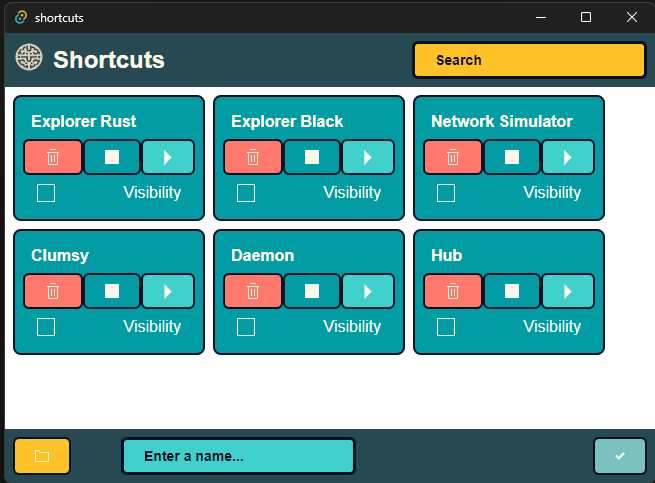
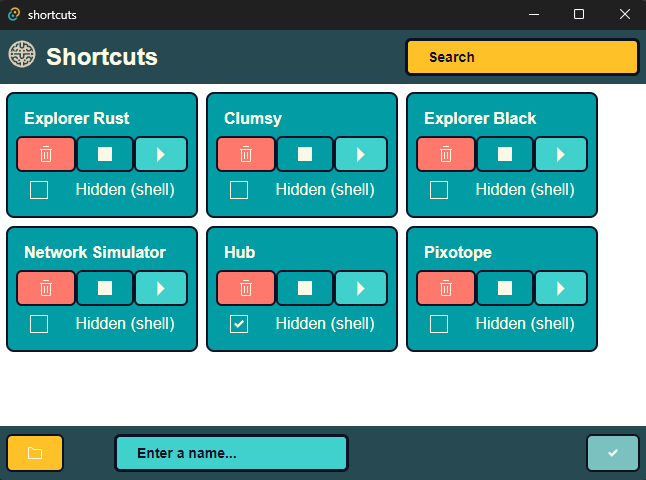
SC-03: Fix working directory

diff --git a/src/App.tsx b/src/App.tsx
@@ -138,7 +138,7 @@ export const App = () => {
 
       try {
         const data = JSON.parse(payload);
-        const dbShortcuts = get(data, ["shortcuts"], []);
+        const dbShortcuts = get(data, ["items"], []);
         setShortcuts(dbShortcuts);
       } catch (error) {
         console.log(error);
@@ -200,7 +200,7 @@ export const App = () => {
                 </ItemButtons>
                 <ItemFooter>
                   <Checkbox
-                    label="Visibility"
+                    label="Hidden (shell)"
                     checked={isEqual(get(values, ["visibility"]), VISIBILITY.HIDDEN)}
                     onChange={(value) => {
                       emit(MESSAGES.UPDATE_SHORTCUT, {

diff --git a/src-tauri/src/main.rs b/src-tauri/src/main.rs
@@ -42,9 +42,7 @@ fn main() {
                     match serde_json::from_str::<Shortcut>(value) {
                         Ok(shortcut) => {
                             let mut shortcuts = read_shortcuts_from_file(DATABASE_PATH)
-                                .unwrap_or_else(|_| Shortcuts {
-                                    shortcuts: Vec::new(),
-                                });
+                                .unwrap_or_else(|_| Shortcuts { items: Vec::new() });
 
                             add_shortcut(&mut shortcuts, shortcut);
 
@@ -74,9 +72,7 @@ fn main() {
                     match serde_json::from_str::<Shortcut>(value) {
                         Ok(shortcut) => {
                             let mut shortcuts = read_shortcuts_from_file(DATABASE_PATH)
-                                .unwrap_or_else(|_| Shortcuts {
-                                    shortcuts: Vec::new(),
-                                });
+                                .unwrap_or_else(|_| Shortcuts { items: Vec::new() });
 
                             remove_shortcut(&mut shortcuts, shortcut.id);
 
@@ -106,9 +102,7 @@ fn main() {
                     match serde_json::from_str::<Shortcut>(value) {
                         Ok(shortcut) => {
                             let mut shortcuts = read_shortcuts_from_file(DATABASE_PATH)
-                                .unwrap_or_else(|_| Shortcuts {
-                                    shortcuts: Vec::new(),
-                                });
+                                .unwrap_or_else(|_| Shortcuts { items: Vec::new() });
 
                             update_shortcut(&mut shortcuts, shortcut);
 

diff --git a/src-tauri/src/database/disk.rs b/src-tauri/src/database/disk.rs
@@ -9,18 +9,16 @@ use super::constants::DATABASE_PATH;
 use super::structs::{Shortcut, Shortcuts};
 
 pub fn add_shortcut(shortcuts: &mut Shortcuts, shortcut: Shortcut) {
-    shortcuts.shortcuts.push(shortcut);
+    shortcuts.items.push(shortcut);
 }
 
 pub fn remove_shortcut(shortcuts: &mut Shortcuts, id: String) {
-    shortcuts.shortcuts.retain(|shortcut| shortcut.id != id);
+    shortcuts.items.retain(|value| value.id != id);
 }
 
 pub fn update_shortcut(shortcuts: &mut Shortcuts, shortcut: Shortcut) {
-    shortcuts
-        .shortcuts
-        .retain(|shortcut| shortcut.id != shortcut.id);
-    shortcuts.shortcuts.push(shortcut);
+    shortcuts.items.retain(|value| value.id != shortcut.id);
+    shortcuts.items.push(shortcut);
 }
 
 pub fn read_shortcuts_from_file<P: AsRef<Path>>(file_path: P) -> Result<Shortcuts> {
@@ -30,9 +28,8 @@ pub fn read_shortcuts_from_file<P: AsRef<Path>>(file_path: P) -> Result<Shortcut
 }
 
 pub fn read_shortcuts_from_file_as_string() -> String {
-    let shortcuts = read_shortcuts_from_file(DATABASE_PATH).unwrap_or_else(|_| Shortcuts {
-        shortcuts: Vec::new(),
-    });
+    let shortcuts =
+        read_shortcuts_from_file(DATABASE_PATH).unwrap_or_else(|_| Shortcuts { items: Vec::new() });
 
     // Serialize the shortcuts data to JSON
     let shortcuts_json = serde_json::to_string(&shortcuts).expect("Failed to serialize shortcuts");

diff --git a/src-tauri/src/terminal/commands.rs b/src-tauri/src/terminal/commands.rs
@@ -1,5 +1,6 @@
 use std::io;
 use std::os::windows::process::CommandExt;
+use std::path::Path;
 use std::process::Command;
 use winapi::um::wincon::GetConsoleWindow;
 use winapi::um::winuser::{ShowWindow, UpdateWindow, SW_HIDE};
@@ -37,9 +38,16 @@ fn execute_hidden_command(command: &str) -> io::Result<bool> {
 
 pub fn start_service(service_path: &str, visibility: &str) -> io::Result<bool> {
     // Construct the PowerShell command to start the service
+    let path = Path::new(service_path);
+    let parent_folder = path
+        .parent()
+        .unwrap_or_else(|| Path::new("No parent directory found"));
+
     let start_service_command = format!(
-        "Start-Process -FilePath '{0}' -WindowStyle {1}",
-        service_path, visibility
+        "Start-Process -FilePath '{0}' -WindowStyle {1} -WorkingDirectory {2}",
+        service_path,
+        visibility,
+        parent_folder.display()
     );
 
     let _ = execute_hidden_command(&start_service_command);

diff --git a/src-tauri/src/database/structs.rs b/src-tauri/src/database/structs.rs
@@ -10,5 +10,5 @@ pub struct Shortcut {
 
 #[derive(Serialize, Deserialize)]
 pub struct Shortcuts {
-    pub(crate) shortcuts: Vec<Shortcut>,
+    pub(crate) items: Vec<Shortcut>,
 }
